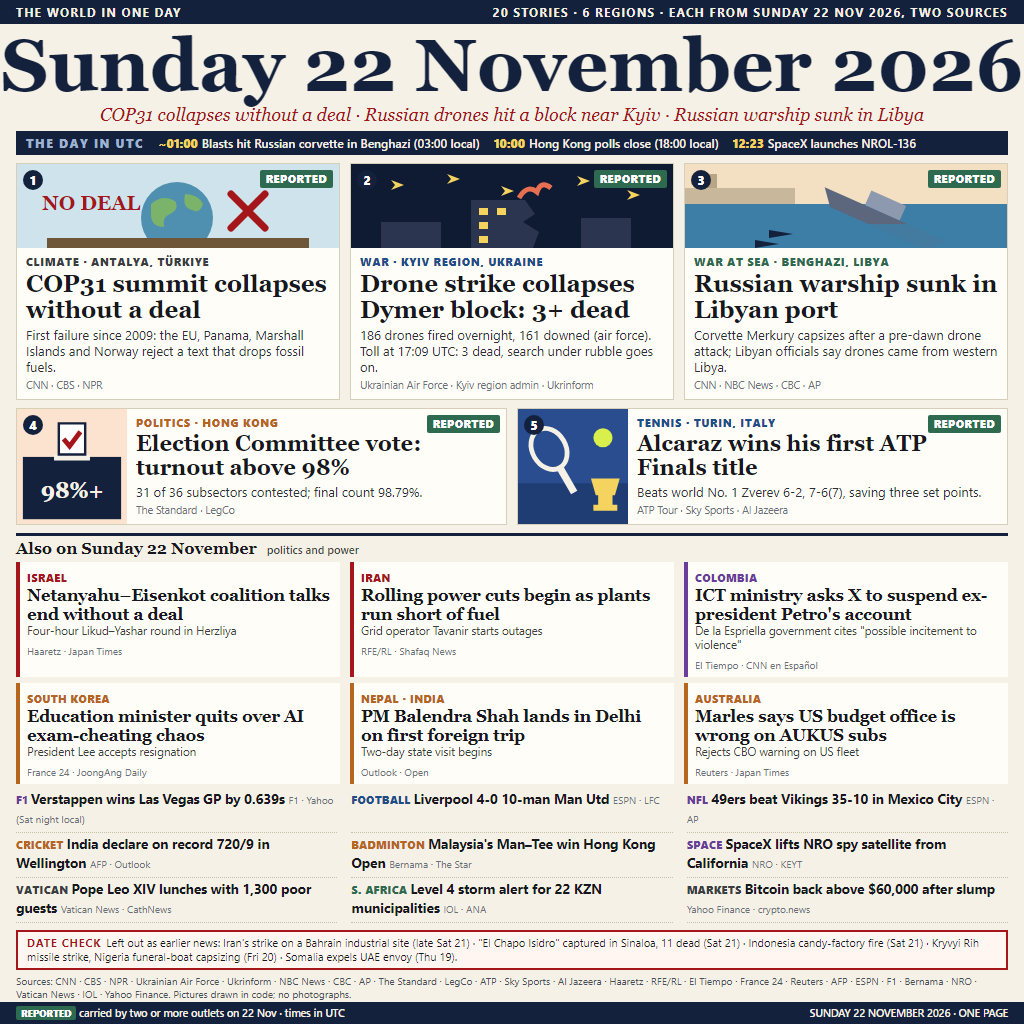
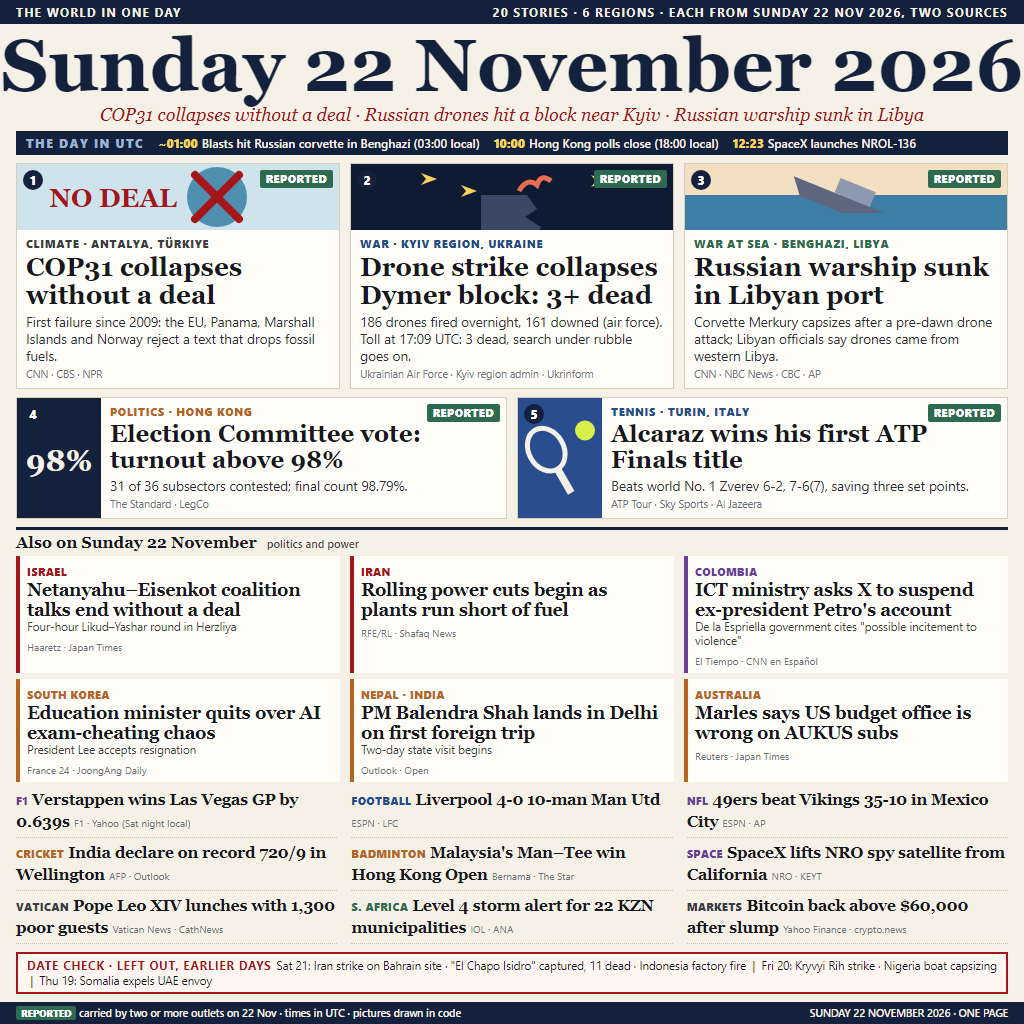
V3: larger briefs, simpler art, compact date check (same 20 facts)

Changed region(s): [[0.0, 0.1562, 1.0, 1.0]]

diff --git a/design/page.html b/design/page.html
@@ -21,7 +21,7 @@
 
   .row1 { display: flex; gap: 10px; margin: 8px 16px 0; }
   .card { flex: 1; background: #fffdf7; border: 1px solid #d8cfbb; position: relative; }
-  .art { height: 84px; display: block; width: 100%; }
+  .art { height: 66px; display: block; width: 100%; }
   .badge { position: absolute; top: 6px; right: 6px; font-size: 10.5px; font-weight: 800; letter-spacing: .07em;
     padding: 2px 6px; color: #fff; border-radius: 2px; background: #2d6a4f; }
   .badge.clm { background: #b5651d; }
@@ -29,14 +29,14 @@
     color: #fff; font-size: 12px; font-weight: 800; display: flex; align-items: center; justify-content: center; }
   .txt { padding: 6px 9px 7px; }
   .kick { font-size: 11px; font-weight: 800; letter-spacing: .06em; text-transform: uppercase; }
-  .h { font-family: Georgia, serif; font-weight: 700; font-size: 24px; line-height: 26px; margin-top: 2px; }
-  .d { font-size: 13px; line-height: 16px; margin-top: 4px; color: #2b2e35; }
+  .h { font-family: Georgia, serif; font-weight: 700; font-size: 26px; line-height: 28px; margin-top: 2px; }
+  .d { font-size: 13.5px; line-height: 17px; margin-top: 4px; color: #2b2e35; }
   .src { font-size: 10.5px; color: #6b6f78; margin-top: 3px; }
 
   .row2 { display: flex; gap: 10px; margin: 8px 16px 0; }
   .card.wide { display: flex; }
-  .card.wide .art { width: 110px; height: auto; flex: none; }
-  .card.wide .h { font-size: 22px; line-height: 24px; }
+  .card.wide .art { width: 84px; height: auto; flex: none; }
+  .card.wide .h { font-size: 24px; line-height: 26px; }
 
   .eu { color: #1d4e89; } .me { color: #a4161a; } .as { color: #b5651d; }
   .am { color: #6a3d9a; } .af { color: #2d6a4f; } .wd { color: #3a3d44; }
@@ -48,17 +48,18 @@
   .mid { display: grid; grid-template-columns: 1fr 1fr 1fr; gap: 6px 10px; margin: 4px 16px 0; }
   .m { background: #fffdf7; border-left: 4px solid currentColor; padding: 3px 7px 4px; }
   .m i { font-style: normal; font-size: 10.5px; font-weight: 800; letter-spacing: .06em; }
-  .m b { display: block; font-family: Georgia, serif; font-size: 16.5px; line-height: 19px; color: #16181d; }
+  .m b { display: block; font-family: Georgia, serif; font-size: 17.5px; line-height: 20px; color: #16181d; }
   .m span { display: block; font-size: 11.5px; line-height: 14px; color: #3a3d44; }
   .m em { font-style: normal; font-size: 10px; color: #6b6f78; }
 
-  .list { display: grid; grid-template-columns: 1fr 1fr 1fr; gap: 2px 14px; margin: 6px 16px 0; }
-  .it { font-size: 13.5px; line-height: 17px; border-bottom: 1px dotted #c9bfa9; padding-bottom: 4px; }
-  .it i { font-style: normal; font-weight: 800; font-size: 10.5px; letter-spacing: .05em; margin-right: 3px; }
-  .it b { font-weight: 700; }
+  .list { display: grid; grid-template-columns: 1fr 1fr 1fr; gap: 4px 14px; margin: 7px 16px 0; }
+  .it { border-bottom: 1px dotted #c9bfa9; padding-bottom: 4px; }
+  .it { font-size: 15.5px; line-height: 19px; }
+  .it i { font-style: normal; font-weight: 800; font-size: 10.5px; letter-spacing: .06em; margin-right: 4px; }
+  .it b { font-family: Georgia, serif; font-weight: 700; }
   .it em { font-style: normal; color: #6b6f78; font-size: 10px; }
 
-  .check { margin: 7px 16px 0; border: 2px solid #a4161a; background: #fff6f2; padding: 4px 9px; font-size: 11px; line-height: 14px; }
+  .check { margin: 8px 16px 0; border: 2px solid #a4161a; background: #fff6f2; padding: 4px 9px; font-size: 11.5px; line-height: 15px; }
   .check b.t { color: #a4161a; letter-spacing: .08em; margin-right: 5px; }
   .srcs { margin: 5px 16px 0; font-size: 10px; line-height: 13px; color: #4a4e57; }
   .foot { position: absolute; left: 0; right: 0; bottom: 0; height: 22px; background: #14213d; color: #f6f1e6;
@@ -81,16 +82,14 @@
     <div class="card">
       <svg class="art" viewBox="0 0 322 84" preserveAspectRatio="xMidYMid slice">
         <rect width="322" height="84" fill="#cfe3ec"/>
-        <circle cx="160" cy="54" r="36" fill="#4f8fb0"/>
-        <path d="M134 40 q12 -10 24 -3 q5 8 -5 13 q-8 3 -6 13 q-12 0 -13 -11z M168 30 q13 0 18 10 q-3 10 -11 6 q-10 -2 -7 -16z" fill="#7bb36a"/>
-        <rect x="30" y="74" width="262" height="10" fill="#6f5638"/>
-        <g stroke="#a4161a" stroke-width="7" stroke-linecap="round"><line x1="214" y1="30" x2="248" y2="64"/><line x1="248" y1="30" x2="214" y2="64"/></g>
-        <text x="74" y="46" text-anchor="middle" font-family="Georgia" font-weight="700" font-size="20" fill="#a4161a">NO DEAL</text>
+        <circle cx="200" cy="42" r="30" fill="#4f8fb0"/>
+        <g stroke="#a4161a" stroke-width="8" stroke-linecap="round"><line x1="178" y1="20" x2="222" y2="64"/><line x1="222" y1="20" x2="178" y2="64"/></g>
+        <text x="96" y="52" text-anchor="middle" font-family="Georgia" font-weight="700" font-size="26" fill="#a4161a">NO DEAL</text>
       </svg>
       <span class="tag">1</span><span class="badge">REPORTED</span>
       <div class="txt">
         <div class="kick wd">Climate · Antalya, Türkiye</div>
-        <div class="h">COP31 summit collapses without a deal</div>
+        <div class="h">COP31 collapses without a deal</div>
         <div class="d">First failure since 2009: the EU, Panama, Marshall Islands and Norway reject a text that drops fossil fuels.</div>
         <div class="src">CNN · CBS · NPR</div>
       </div>
@@ -98,12 +97,9 @@
     <div class="card">
       <svg class="art" viewBox="0 0 322 84" preserveAspectRatio="xMidYMid slice">
         <rect width="322" height="84" fill="#0f1a33"/>
-        <g fill="#f4d35e"><path d="M40 16 l13 5 -13 5 4 -5z"/><path d="M96 10 l13 5 -13 5 4 -5z"/><path d="M150 22 l13 5 -13 5 4 -5z"/><path d="M226 12 l13 5 -13 5 4 -5z"/><path d="M276 26 l13 5 -13 5 4 -5z"/></g>
-        <rect x="120" y="36" width="80" height="48" fill="#2b3550"/>
-        <g fill="#f4d35e"><rect x="128" y="44" width="9" height="7"/><rect x="146" y="44" width="9" height="7"/><rect x="128" y="58" width="9" height="7"/><rect x="128" y="72" width="9" height="7"/></g>
-        <path d="M200 36 l-26 0 l10 14 l-12 8 l16 10 l-6 16 l18 0z" fill="#0f1a33"/>
-        <path d="M168 34 q8 -14 18 -6 q4 -12 14 -4" stroke="#e76f51" stroke-width="5" fill="none"/>
-        <rect x="230" y="54" width="50" height="30" fill="#2b3550"/><rect x="30" y="58" width="60" height="26" fill="#2b3550"/>
+        <g fill="#f4d35e"><path d="M70 18 l16 6 -16 6 5 -6z"/><path d="M110 30 l16 6 -16 6 5 -6z"/><path d="M240 20 l16 6 -16 6 5 -6z"/></g>
+        <path d="M130 84 v-44 h70 v44 z M200 40 l-24 0 l10 14 l-12 8 l16 10 l-6 12 l16 0z" fill="#3a4766" fill-rule="evenodd"/>
+        <path d="M168 36 q8 -14 18 -6 q4 -12 14 -4" stroke="#e76f51" stroke-width="5" fill="none"/>
       </svg>
       <span class="tag">2</span><span class="badge">REPORTED</span>
       <div class="txt">
@@ -116,11 +112,9 @@
     <div class="card">
       <svg class="art" viewBox="0 0 322 84" preserveAspectRatio="xMidYMid slice">
         <rect width="322" height="84" fill="#f3dfc1"/>
-        <rect x="0" y="24" width="110" height="20" fill="#c9b79c"/><rect x="18" y="10" width="14" height="14" fill="#b8a586"/>
         <rect y="40" width="322" height="44" fill="#3d7ea6"/>
-        <g transform="translate(200 50) rotate(24)"><path d="M-66 0 h132 l-13 16 h-106z" fill="#5c677d"/><rect x="-22" y="-16" width="38" height="16" fill="#8d99ae"/></g>
-        <rect y="60" width="322" height="24" fill="#3d7ea6" opacity=".85"/>
-        <g fill="#14213d"><path d="M108 70 l-24 -4 0 8z"/><path d="M94 80 l-24 -4 0 8z"/></g>
+        <g transform="translate(170 46) rotate(22)"><path d="M-66 0 h132 l-13 16 h-106z" fill="#5c677d"/><rect x="-22" y="-16" width="38" height="16" fill="#8d99ae"/></g>
+        <rect y="58" width="322" height="26" fill="#3d7ea6"/>
       </svg>
       <span class="tag">3</span><span class="badge">REPORTED</span>
       <div class="txt">
@@ -134,11 +128,9 @@
 
   <div class="row2">
     <div class="card wide">
-      <svg class="art" viewBox="0 0 110 96" preserveAspectRatio="xMidYMid slice">
-        <rect width="110" height="96" fill="#fbe3d0"/>
-        <rect x="14" y="40" width="82" height="52" fill="#14213d"/><rect x="40" y="38" width="30" height="5" fill="#f6f1e6"/>
-        <path d="M44 12 h22 v26 h-22z" fill="#fff" stroke="#14213d" stroke-width="2"/><path d="M48 25 l5 6 9 -12" stroke="#a4161a" stroke-width="4" fill="none"/>
-        <text x="55" y="74" text-anchor="middle" font-family="Georgia" font-weight="700" font-size="18" fill="#f6f1e6">98%+</text>
+      <svg class="art" viewBox="0 0 84 96" preserveAspectRatio="xMidYMid slice">
+        <rect width="84" height="96" fill="#14213d"/>
+        <text x="42" y="58" text-anchor="middle" font-family="Georgia" font-weight="700" font-size="24" fill="#f6f1e6">98%</text>
       </svg>
       <span class="tag">4</span><span class="badge">REPORTED</span>
       <div class="txt">
@@ -149,10 +141,10 @@
       </div>
     </div>
     <div class="card wide">
-      <svg class="art" viewBox="0 0 110 96" preserveAspectRatio="xMidYMid slice">
-        <rect width="110" height="96" fill="#2a4d8f"/><rect y="62" width="110" height="34" fill="#1f3c73"/>
-        <g transform="translate(40 42) rotate(-30)"><ellipse cx="0" cy="-10" rx="14" ry="18" fill="none" stroke="#f6f1e6" stroke-width="4"/><rect x="-3" y="8" width="6" height="24" fill="#f6f1e6"/></g>
-        <circle cx="80" cy="24" r="8" fill="#d9f04c"/><path d="M70 58 h24 l-4 14 h-16z M76 72 h12 v8 h-12z M72 80 h20 v5 h-20z" fill="#f4d35e"/>
+      <svg class="art" viewBox="0 0 84 96" preserveAspectRatio="xMidYMid slice">
+        <rect width="84" height="96" fill="#2a4d8f"/>
+        <g transform="translate(36 50) rotate(-30)"><ellipse cx="0" cy="-10" rx="14" ry="18" fill="none" stroke="#f6f1e6" stroke-width="4"/><rect x="-3" y="8" width="6" height="22" fill="#f6f1e6"/></g>
+        <circle cx="62" cy="26" r="8" fill="#d9f04c"/>
       </svg>
       <span class="tag">5</span><span class="badge">REPORTED</span>
       <div class="txt">
@@ -167,11 +159,11 @@
   <div class="sec-h"><b>Also on Sunday 22 November</b><span>politics and power</span></div>
   <div class="mid">
     <div class="m me"><i>ISRAEL</i><b>Netanyahu–Eisenkot coalition talks end without a deal</b><span>Four-hour Likud–Yashar round in Herzliya</span><em>Haaretz · Japan Times</em></div>
-    <div class="m me"><i>IRAN</i><b>Rolling power cuts begin as plants run short of fuel</b><span>Grid operator Tavanir starts outages</span><em>RFE/RL · Shafaq News</em></div>
+    <div class="m me"><i>IRAN</i><b>Rolling power cuts begin as plants run short of fuel</b><em>RFE/RL · Shafaq News</em></div>
     <div class="m am"><i>COLOMBIA</i><b>ICT ministry asks X to suspend ex-president Petro's account</b><span>De la Espriella government cites "possible incitement to violence"</span><em>El Tiempo · CNN en Español</em></div>
     <div class="m as"><i>SOUTH KOREA</i><b>Education minister quits over AI exam-cheating chaos</b><span>President Lee accepts resignation</span><em>France 24 · JoongAng Daily</em></div>
     <div class="m as"><i>NEPAL · INDIA</i><b>PM Balendra Shah lands in Delhi on first foreign trip</b><span>Two-day state visit begins</span><em>Outlook · Open</em></div>
-    <div class="m as"><i>AUSTRALIA</i><b>Marles says US budget office is wrong on AUKUS subs</b><span>Rejects CBO warning on US fleet</span><em>Reuters · Japan Times</em></div>
+    <div class="m as"><i>AUSTRALIA</i><b>Marles says US budget office is wrong on AUKUS subs</b><em>Reuters · Japan Times</em></div>
   </div>
 
   <div class="list">
@@ -186,8 +178,7 @@
     <div class="it"><i class="wd">MARKETS</i><b>Bitcoin back above $60,000 after slump</b> <em>Yahoo Finance · crypto.news</em></div>
   </div>
 
-  <div class="check"><b class="t">DATE CHECK</b>Left out as earlier news: Iran's strike on a Bahrain industrial site (late Sat 21) · "El Chapo Isidro" captured in Sinaloa, 11 dead (Sat 21) · Indonesia candy-factory fire (Sat 21) · Kryvyi Rih missile strike, Nigeria funeral-boat capsizing (Fri 20) · Somalia expels UAE envoy (Thu 19).</div>
-  <div class="srcs">Sources: CNN · CBS · NPR · Ukrainian Air Force · Ukrinform · NBC News · CBC · AP · The Standard · LegCo · ATP · Sky Sports · Al Jazeera · Haaretz · RFE/RL · El Tiempo · France 24 · Reuters · AFP · ESPN · F1 · Bernama · NRO · Vatican News · IOL · Yahoo Finance. Pictures drawn in code; no photographs.</div>
-  <div class="foot"><span><span class="k">REPORTED</span> carried by two or more outlets on 22 Nov · times in UTC</span><span>SUNDAY 22 NOVEMBER 2026 · ONE PAGE</span></div>
+  <div class="check"><b class="t">DATE CHECK · LEFT OUT, EARLIER DAYS</b>Sat 21: Iran strike on Bahrain site · "El Chapo Isidro" captured, 11 dead · Indonesia factory fire &nbsp;|&nbsp; Fri 20: Kryvyi Rih strike · Nigeria boat capsizing &nbsp;|&nbsp; Thu 19: Somalia expels UAE envoy</div>
+  <div class="foot"><span><span class="k">REPORTED</span> carried by two or more outlets on 22 Nov · times in UTC · pictures drawn in code</span><span>SUNDAY 22 NOVEMBER 2026 · ONE PAGE</span></div>
 </body>
 </html>
